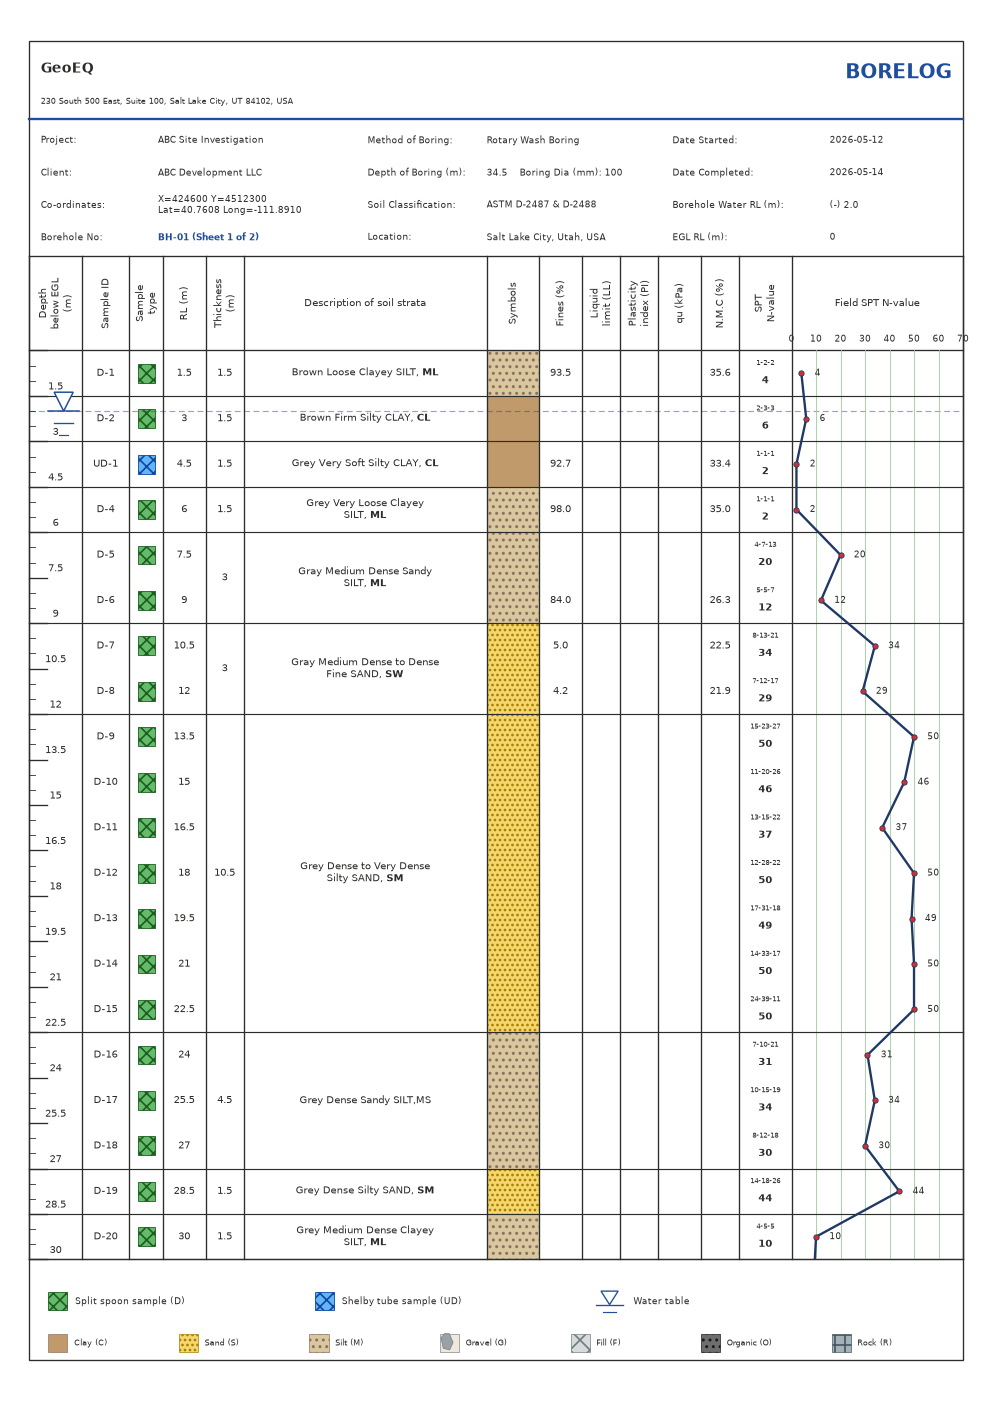
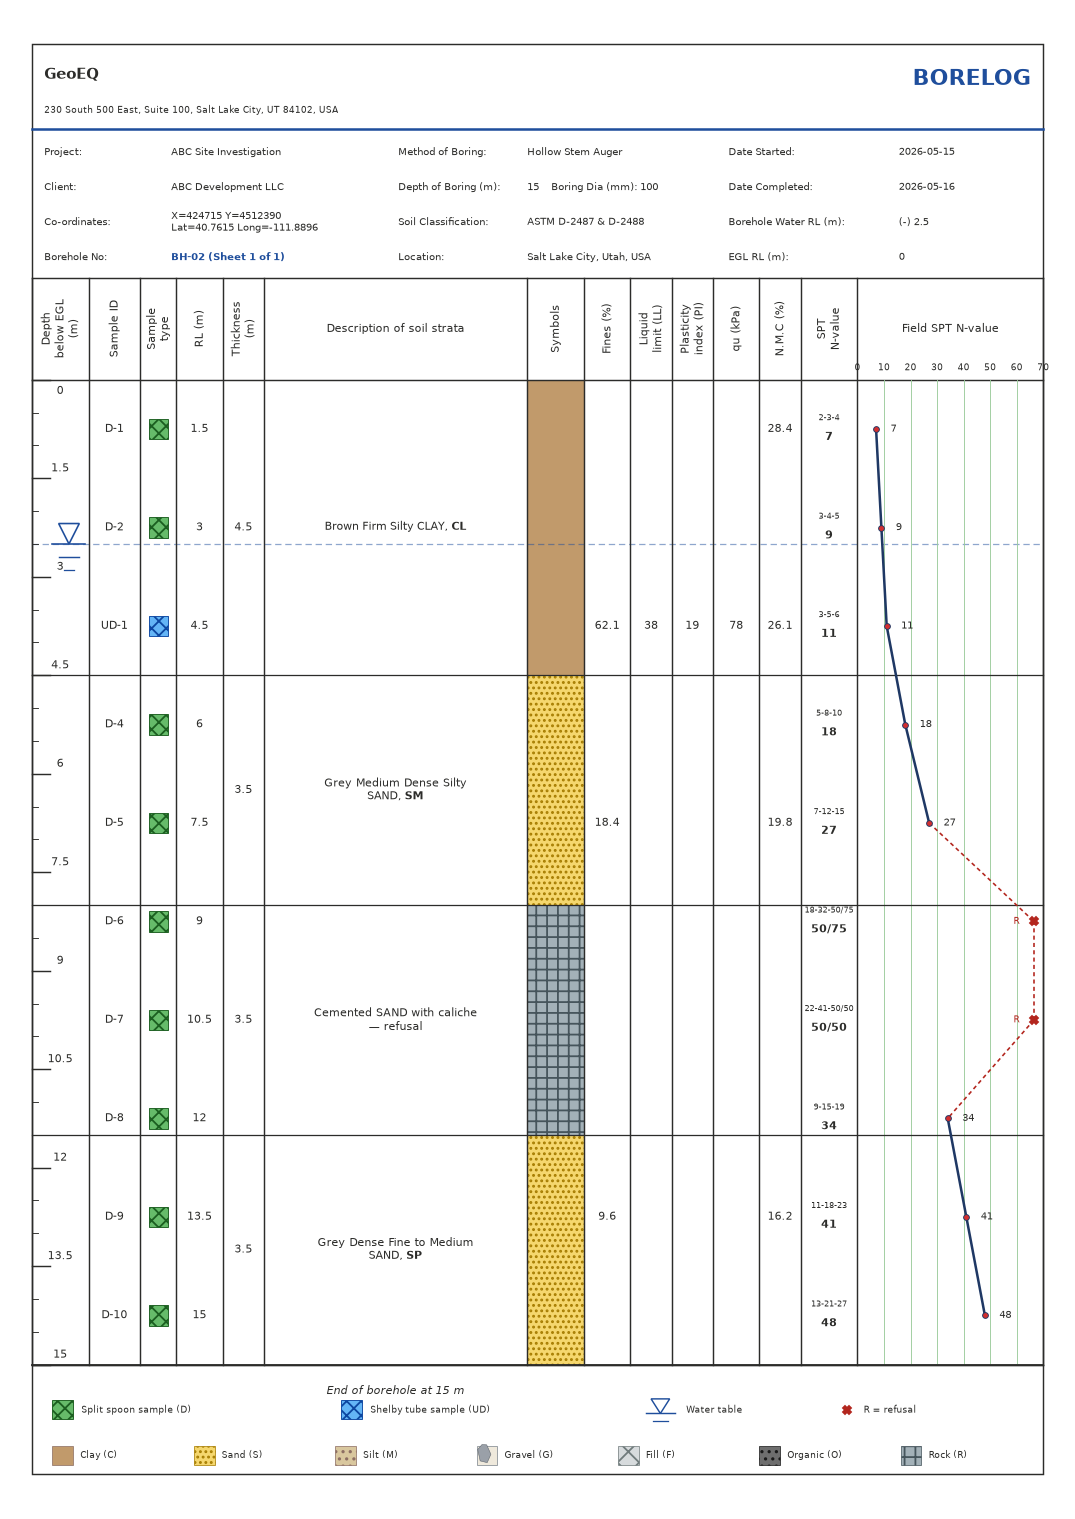
Document 1.2.0: rock coring, with the search surface widened past SPT
The manual gains a Rock coring section - what a core run is, what TCR,
SCR and RQD each count, how the sheet follows the data rather than a
setting, and how to read the recovery bar - plus the core rows in the
file-format reference.

The README described a program that only logs soil. It now carries rock
core logging in the subtitle, features and image alt text, and the FAQ
answers what RQD is (Deere's 100 mm rule and the five quality bands) and
how TCR, SCR and RQD differ, as self-contained definitions rather than
pointers elsewhere. Bentley moved gINT to Support Discontinued in
January 2026, so the alternatives question now says where that leaves
someone looking to move.

Screenshots were from 1.0.0 and showed a three-tab editor. All grabbed
again from the demo project, so a reader can reproduce any of them, with
two new ones for the mixed and rock-only sheets.

diff --git a/README.md b/README.md
@@ -5,13 +5,14 @@
 <h1 align="center">GeoEQ SPT Logs — Free SPT Borelog Software</h1>
 
 <p align="center">
-  Create professional <b>SPT borehole logs</b> in minutes — enter or import
-  field data, get template-quality <b>geotechnical borelog</b> sheets and
-  print-ready PDF reports. Free for Windows.
+  Create professional <b>SPT borehole logs</b> and <b>rock core logs</b> in
+  minutes — enter or import field data, get template-quality
+  <b>geotechnical borelog</b> sheets with <b>TCR, SCR and RQD</b> and
+  print-ready PDF reports. Free borehole logging software for Windows.
 </p>
 
 <p align="center">
-  <a href="https://github.com/geoeq/SPT-Borelogs/releases/latest"><img src="https://img.shields.io/badge/Download-v1.1.0-1F4E9C?style=for-the-badge" alt="Download GeoEQ SPT Logs"></a>
+  <a href="https://github.com/geoeq/SPT-Borelogs/releases/latest"><img src="https://img.shields.io/badge/Download-v1.2.0-1F4E9C?style=for-the-badge" alt="Download GeoEQ SPT Logs"></a>
   <a href="https://github.com/geoeq/SPT-Borelogs/releases/latest"><img src="https://img.shields.io/badge/Windows%2010%2F11-64--bit-0078D6?style=for-the-badge" alt="Windows 10 and 11"></a>
   <a href="#faq"><img src="https://img.shields.io/badge/v1.x-Free-2E7D32?style=for-the-badge" alt="Free borelog software"></a>
   <a href="https://github.com/geoeq/SPT-Borelogs/releases"><img src="https://img.shields.io/github/downloads/geoeq/SPT-Borelogs/total?style=for-the-badge&label=Downloads&color=5A5A5A" alt="Total downloads"></a>
@@ -35,10 +36,12 @@ Most geotechnical teams still draw borehole logs in Excel templates —
 slow, error-prone, and painful to keep consistent across a project.
 Commercial borelog software is powerful but expensive and heavy.
 **GeoEQ SPT Logs** sits in the sweet spot: a free, fast, purpose-built
-SPT borelog program that produces clean, standardized boring log sheets
-— and imports the Excel files you already have.
+borehole logging program that produces clean, standardized boring log
+sheets — and imports the Excel files you already have.
 
 - ✅ **Free** (version 1.x, full-featured — see [FAQ](#faq))
+- ✅ **Soil and rock in one log** — SPT down to refusal, then core runs
+  with **TCR, SCR and RQD**, on the same continuous sheet
 - ✅ **Familiar output** — template-style borelog sheets engineers and
   reviewers recognize instantly
 - ✅ **Your data stays yours** — plain JSON project files on your disk,
@@ -51,6 +54,21 @@ redraws instantly on the right:
 
 <p align="center">
   <img src="assets/screenshot-app.png" alt="SPT borelog software — live borehole log editor with SPT N-value graph" width="90%">
+</p>
+
+**Rock coring** — enter core runs and the sheet continues into rock by
+itself: the N-value graph becomes core recovery, coloured by rock
+quality:
+
+<p align="center">
+  <img src="assets/screenshot-rock-core.png" alt="Rock core logging software — TCR SCR RQD core run table with RQD bar chart on the borehole log" width="90%">
+</p>
+
+**Rock-only boreholes** — no SPT rows at all, so the columns carry the
+core-run figures instead:
+
+<p align="center">
+  <img src="assets/screenshot-rock-sheet.png" alt="Rock core log with TCR, SCR, RQD, core size, fractures per metre and rock quality" width="90%">
 </p>
 
 **Import any spreadsheet** — non-standard headings are matched with an
@@ -72,6 +90,14 @@ classification, groundwater level, and the field SPT N-value profile:
 - **SPT borehole log sheets** drawn live: ruler depth scale, sample
   symbols (split spoon / Shelby tube), blow counts with computed
   **SPT N-value**, refusal handling, and the N-vs-depth profile graph
+- **Rock core logging — TCR, SCR and RQD**: one row per core run, drawn
+  as a single nested recovery bar coloured by **rock quality**
+  (Deere: very poor → excellent). Core size, fractures per metre and run
+  length included. Figures are checked against each other, so an RQD
+  above its SCR is reported rather than silently accepted
+- **Soil and rock on one continuous log**: enter core runs and the sheet
+  follows your data — no mode to switch. SPT above the rockhead, core
+  recovery below it; a borehole with no SPT at all draws as a rock sheet
 - **Soil strata symbols** for Clay, Sand, Silt, Gravel, Fill, Organic
   and Rock — colored, textured, with **USCS group symbols** (ML, CL,
   SW…) printed bold in descriptions
@@ -107,7 +133,8 @@ classification, groundwater level, and the field SPT N-value profile:
 2. Right-click the project in the explorer → **Add borehole**, or
    **Import borehole from Excel / CSV**.
 3. Enter depths, blow counts, samples, and strata — the sheet updates
-   live.
+   live. Cored the hole? Put the runs in the **Rock core** tab and the
+   sheet continues into rock on its own.
 4. Right-click the project → **Export project PDF** for the full
    report.
 
@@ -135,9 +162,50 @@ Yes — version 1.x is free and full-featured, for both commercial and
 personal use.
 
 **Is this an alternative to gINT, LogPlot, or Excel borelog templates?**
-It's a lightweight, free alternative for SPT borehole logging: if your
-deliverable is a clean SPT boring log with soil strata, lab values, and
-the N-value curve, GeoEQ SPT Logs does it with far less setup.
+It's a lightweight, free alternative for borehole logging: if your
+deliverable is a clean boring log with soil strata, lab values, the
+N-value curve and rock core recovery, GeoEQ SPT Logs does it with far
+less setup. Bentley placed gINT in Support Discontinued status in
+January 2026, so if you are looking for somewhere to move, this is a
+free place to start.
+
+**Can it log rock cores?**
+Yes, since version 1.2. Enter one row per core run — run top and bottom,
+TCR %, SCR %, RQD %, core size and fractures per metre — and the sheet
+draws the cored interval for you. There is no rock/soil mode to choose:
+a borehole with SPT rows and core runs draws both on one continuous log,
+and a borehole with only core runs draws as a rock sheet.
+
+**What is RQD?**
+Rock Quality Designation, proposed by Deere in 1964. For each core run
+it is the combined length of intact, sound core pieces **100 mm (4 in)
+or longer**, divided by the length of the run, as a percentage. It is
+the figure that drives design, and it classifies rock like this:
+
+| RQD % | Rock quality |
+|---|---|
+| 0 – 25 | Very poor |
+| 25 – 50 | Poor |
+| 50 – 75 | Fair |
+| 75 – 90 | Good |
+| 90 – 100 | Excellent |
+
+GeoEQ SPT Logs colours the recovery bar by this scale — red very poor
+through green excellent — so a weathered zone is visible before you read
+a number.
+
+**What is the difference between TCR, SCR and RQD?**
+All three are the same fraction — recovered length ÷ run length — with a
+progressively stricter definition of what counts:
+
+- **TCR**, total core recovery: everything that came out of the barrel,
+  rubble and fragments included.
+- **SCR**, solid core recovery: only full-diameter solid cylinders.
+- **RQD**: only sound pieces 100 mm or longer.
+
+So **RQD ≤ SCR ≤ TCR**, always. The software uses that rule twice: it
+draws all three as one nested bar instead of three columns, and it
+reports a figure that breaks the order as the transcription error it is.
 
 **Can I import my existing Excel borelog data?**
 Yes. Standard office templates import in one click; any other
@@ -189,7 +257,7 @@ small things keep the project growing:
 If you use GeoEQ SPT Logs in a report, thesis, or publication, please
 cite it as:
 
-> Malo, R. C., & Qiu, T. (2026). *GeoEQ SPT Logs* (Version 1.1.0)
+> Malo, R. C., & Qiu, T. (2026). *GeoEQ SPT Logs* (Version 1.2.0)
 > [Computer software]. GeoEQ. https://github.com/geoeq/SPT-Borelogs
 
 BibTeX:
@@ -198,7 +266,7 @@ BibTeX:
 @software{malo2026geoeqsptlogs,
   author  = {Malo, Ripon Chandra and Qiu, Tong},
   title   = {GeoEQ SPT Logs},
-  version = {1.1.0},
+  version = {1.2.0},
   year    = {2026},
   publisher = {GeoEQ},
   url     = {https://github.com/geoeq/SPT-Borelogs}

diff --git a/manual.md b/manual.md
@@ -1,6 +1,6 @@
 # GeoEQ SPT Logs — User Manual
 
-*A [GeoEQ](https://geoeq.org) software · this manual matches version 1.1.*
+*A [GeoEQ](https://geoeq.org) software · this manual matches version 1.2.*
 
 ---
 
@@ -85,7 +85,7 @@ Double-click a project (or right-click → Project settings):
 
 ## 5. Entering borelog data
 
-Open a borehole (double-click). Three input tabs:
+Open a borehole (double-click). Four input tabs:
 
 - **SPT & samples** — one row per test/sample: depth, the three 15 cm
   blow counts (N is computed as 2nd + 3rd), or type a direct **N**
@@ -98,6 +98,10 @@ Open a borehole (double-click). Three input tabs:
   description ("Sandy SILT" → M) and sets the colored symbol column.
   A USCS symbol at the end of a description ("…SILT,ML") is printed
   bold automatically.
+- **Rock core** — one row per core run, below refusal: run top and
+  bottom, TCR %, SCR %, RQD %, core size (NQ, HQ…) and fractures per
+  metre. Leave the tab empty for a soil-only borehole and the sheet
+  is drawn exactly as before. See section 6.
 - **Header** — per-borehole facts: X/Y and Lat/Long coordinates, dates,
   boring method, water RL (e.g. `(-) 5.0` places the water marker at
   5.0 m), boring dia, classification standard, EGL reduced level.
@@ -105,7 +109,60 @@ Open a borehole (double-click). Three input tabs:
 The sheet on the right redraws with every edit; use the Sheet spinner
 for multi-page logs (default ~30 m per sheet).
 
-## 6. Importing data
+## 6. Rock coring
+
+When the sampler refuses, the driller pulls the split spoon and picks up
+a **core barrel**. Below that depth there are no blow counts: the unit of
+measurement is the **core run**, and three percentages measured off the
+recovered core.
+
+| | Counts | |
+|---|---|---|
+| **TCR** | everything recovered, rubble included | total core recovery |
+| **SCR** | full-diameter solid cylinders only | solid core recovery |
+| **RQD** | sound pieces 100 mm or longer | rock quality designation |
+
+Enter them in the **Rock core** tab, one row per run. Run number, run
+length and the rock quality word are worked out for you.
+
+### The sheet follows the data
+
+There is no rock/soil setting to choose. What you enter decides what is
+drawn:
+
+| SPT rows | Core runs | Sheet |
+|---|---|---|
+| yes | none | the ordinary borelog, unchanged |
+| yes | yes | N-value graph above the rockhead, core recovery below it |
+| none | yes | a rock sheet: the lab columns carry the run figures |
+
+The **rockhead** is the top of your first core run, so the transition
+line needs no setting either.
+
+### Reading the recovery bar
+
+RQD can never exceed SCR, which can never exceed TCR, so one bar shows
+all three: the palest block is TCR, the middle SCR, the solid block RQD.
+The colour is the run's rock quality — red very poor, orange poor,
+yellow fair, light green good, green excellent — so a weathered zone is
+visible before you read a number. The RQD figure is printed in the bar.
+
+| RQD % | Rock quality |
+|---|---|
+| 0 – 25 | Very poor |
+| 25 – 50 | Poor |
+| 50 – 75 | Fair |
+| 75 – 90 | Good |
+| 90 – 100 | Excellent |
+
+### Checks
+
+Because the three nest, a figure out of order is a typing error, and it
+is reported rather than silently corrected — as is a run bottom above
+its top, a run that starts above the end of the one before it, and any
+value outside 0–100. Look at the badges under the sheet.
+
+## 7. Importing data
 
 **From the office BH-xx Excel template** — right-click a project →
 Import borehole: the borehole is created with header, samples, blows
@@ -119,7 +176,7 @@ and the rows are inserted. Files with only an N column (no blow counts)
 work — the N goes into the direct-N column. Consecutive rows with the
 same description merge into one stratum automatically.
 
-## 7. Exporting PDFs
+## 8. Exporting PDFs
 
 - **One borehole**: the Export PDF button in its borelog tab (or
   right-click → Export PDF). Multi-sheet logs export all pages.
@@ -128,7 +185,7 @@ same description merge into one stratum automatically.
 
 What you see on screen is exactly what is exported.
 
-## 8. Where your data lives
+## 9. Where your data lives
 
 - **Project files** default to `Documents\GeoEQ SPT Logs\Projects` — the
   Open/Save dialogs start there. Files are plain `.sbl` (JSON), easy to
@@ -139,7 +196,7 @@ What you see on screen is exactly what is exported.
 - Nothing is stored in the installation folder, so uninstalling or
   updating the app never touches your projects.
 
-## 9. The project file format
+## 10. The project file format
 
 A `.sbl` file is plain UTF-8 JSON. It is documented here so you can read
 your own data — for a QA script, a bulk check across boreholes, or to
@@ -188,7 +245,8 @@ without exporting anything first.
             },
             "page_depth": 15.0,     // depth printed per sheet
             "spt": [ /* rows, see below */ ],
-            "strata": [ /* rows, see below */ ]
+            "strata": [ /* rows, see below */ ],
+            "core": [ /* core runs, see below; omitted if none */ ]
           }
         }
       ]
@@ -216,6 +274,10 @@ Table rows are arrays of strings, in column order. Empty cells are `""`.
 (`C` clay, `S` sand, `M` silt, `G` gravel, `F` fill, `O` organic,
 `R` rock).
 
+**`core` — 7 cells** (present only where there is coring): run top, run
+bottom, TCR %, SCR %, RQD %, core size, fractures per metre. Run number,
+run length and the rock quality word are derived, not stored.
+
 ### Reading a file
 
 ```python
@@ -242,7 +304,7 @@ a reader that ignores what it does not recognise keeps working across
 versions. Files written by earlier versions open unchanged and are
 upgraded in memory when saved.
 
-## 10. Updates
+## 11. Updates
 
 **Help → Check for updates** compares your version with the latest
 release. If a newer version exists you get a download link; releases
@@ -250,7 +312,7 @@ marked *required* must be installed before continuing. You can always
 download manually from the
 [Releases page](https://github.com/geoeq/SPT-Borelogs/releases/latest).
 
-## 11. Tips & FAQ
+## 12. Tips & FAQ
 
 - **My water marker didn't move** — the marker follows the number in
   the Water RL header field ("(-) 5.0" → 5.0 m below EGL).

diff --git a/CHANGELOG.md b/CHANGELOG.md
@@ -3,6 +3,51 @@
 All notable changes to GeoEQ SPT Logs are documented here.
 Dates use YYYY-MM-DD.
 
+## 1.2.0 — 2026-08-26
+
+Rock coring. Refusal is where the driller pulls the split spoon and
+picks up a core barrel, and until now the log stopped there. Free update
+for every 1.x user; files from 1.0 and 1.1 open unchanged.
+
+### Added
+
+- **Rock core tab.** One row per core run: run top and bottom, TCR %,
+  SCR %, RQD %, core size and fractures per metre. Run number, run
+  length and the rock quality word (very poor … excellent) are worked
+  out for you.
+- **The sheet follows the data, with nothing to set.** No core runs
+  draws the sheet you already know. Core runs beside SPT rows put the
+  N-value graph above the rockhead and core recovery below it. Core runs
+  with no SPT at all draw a rock sheet, the lab columns carrying the run
+  figures. The rockhead is the top of your first run.
+- **One bar for all three figures.** RQD can never exceed SCR, which can
+  never exceed TCR, so a single nested bar shows them all — and takes
+  the colour of the run's rock quality, red very poor through green
+  excellent, so a weathered zone is visible before a number is read. The
+  colours differ in lightness as well as hue, so the scale still reads
+  photocopied.
+- **Figures checked against each other.** SCR above TCR, or RQD above
+  SCR, is a typing error and is reported. So is a run bottom above its
+  top, a run starting above the end of the one before it, and any value
+  outside 0–100.
+- The `.sbl` format gains an optional `core` list, documented in the
+  manual. It is written only where there is coring.
+
+### Fixed
+
+- On a cored borehole with no SPT tests, the depth ruler followed the
+  SPT test interval — an interval at which nothing had been sampled. It
+  now follows the core run length, so ticks land on run boundaries.
+- Core run boundaries no longer cross the thickness, description and
+  symbol columns, which describe the stratum rather than the run.
+
+### Notes
+
+- A borehole with no core runs is drawn exactly as 1.1 drew it, to the
+  pixel.
+- Rock quality bands follow Deere: 0–25 very poor, 25–50 poor, 50–75
+  fair, 75–90 good, 90–100 excellent.
+
 ## 1.1.0 — 2026-08-17
 
 Recording what the field actually reports, and letting each office use
